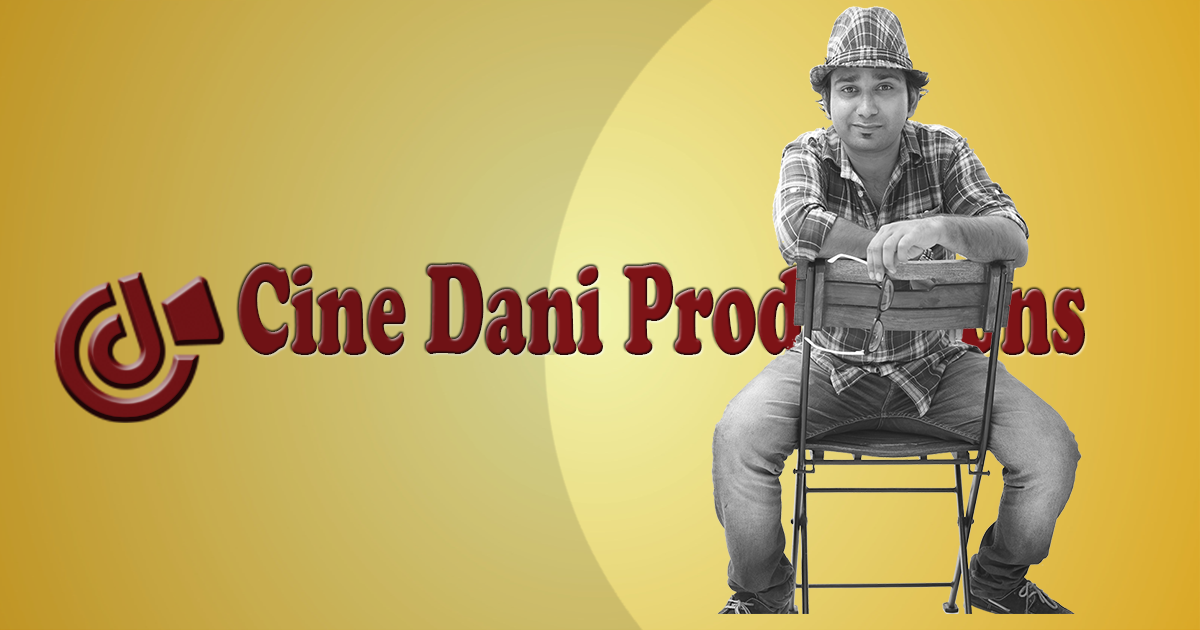
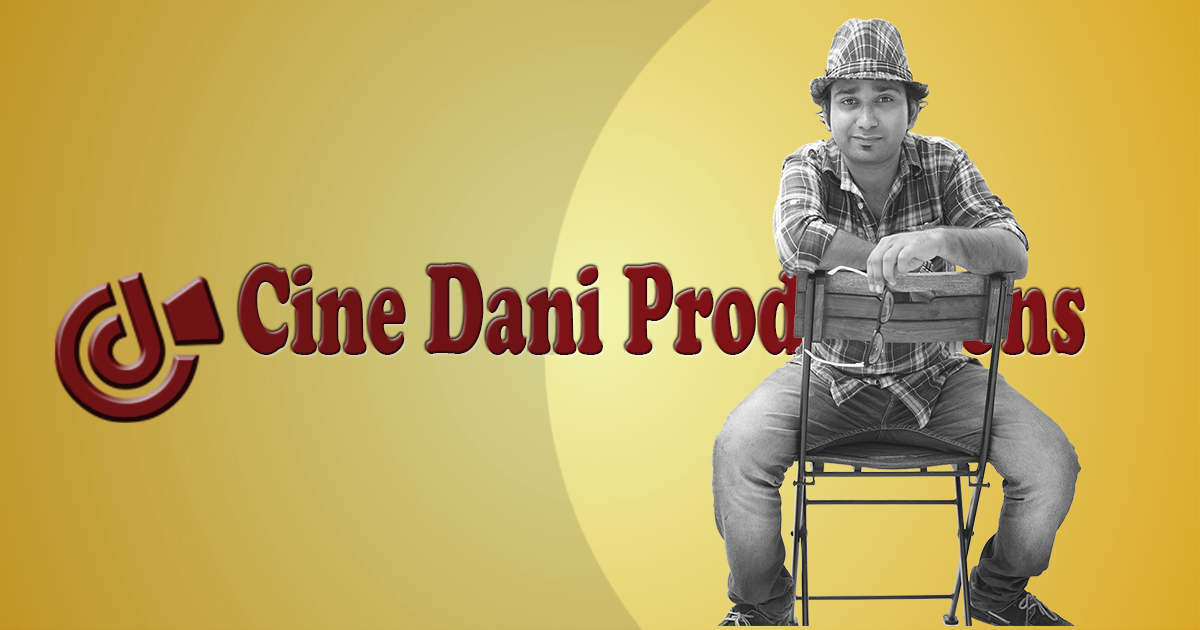
Added Twitter/Facebook cards

Changed region(s): [[0.5858, 0.0, 0.8942, 0.9952], [0.8633, 0.6333, 0.8942, 0.6937], [0.8942, 0.6937, 0.925, 0.7238]]

diff --git a/index.html b/index.html
@@ -11,8 +11,8 @@
 		<meta name="twitter:creator" content="@cinedani">
 		<meta name="twitter:title" content="Cine Dani Productions">
 		<meta name="twitter:description" content="Vikas Dani: Cine Dani Productions is a Mumbai based Film production company established to create soulful and pure Cinema.">
-		<meta name="twitter:image" content="http://cinedaniproductions.co.in/resources/images/webcard.png">
-		<meta property="og:image" content="http://cinedaniproductions.co.in/resources/images/webcard.png"/>
+		<meta name="twitter:image" content="http://cinedaniproductions.co.in/resources/images/showcard.png">
+		<meta property="og:image" content="http://cinedaniproductions.co.in/resources/images/showcard.png"/>
 		<meta property="og:url" content="http://cinedaniproductions.co.in/"/>
 		<meta property="og:title" content="Cine Dani Productions"/>
 		<meta property="og:site_name" content="Cine Dani Productions"/>
